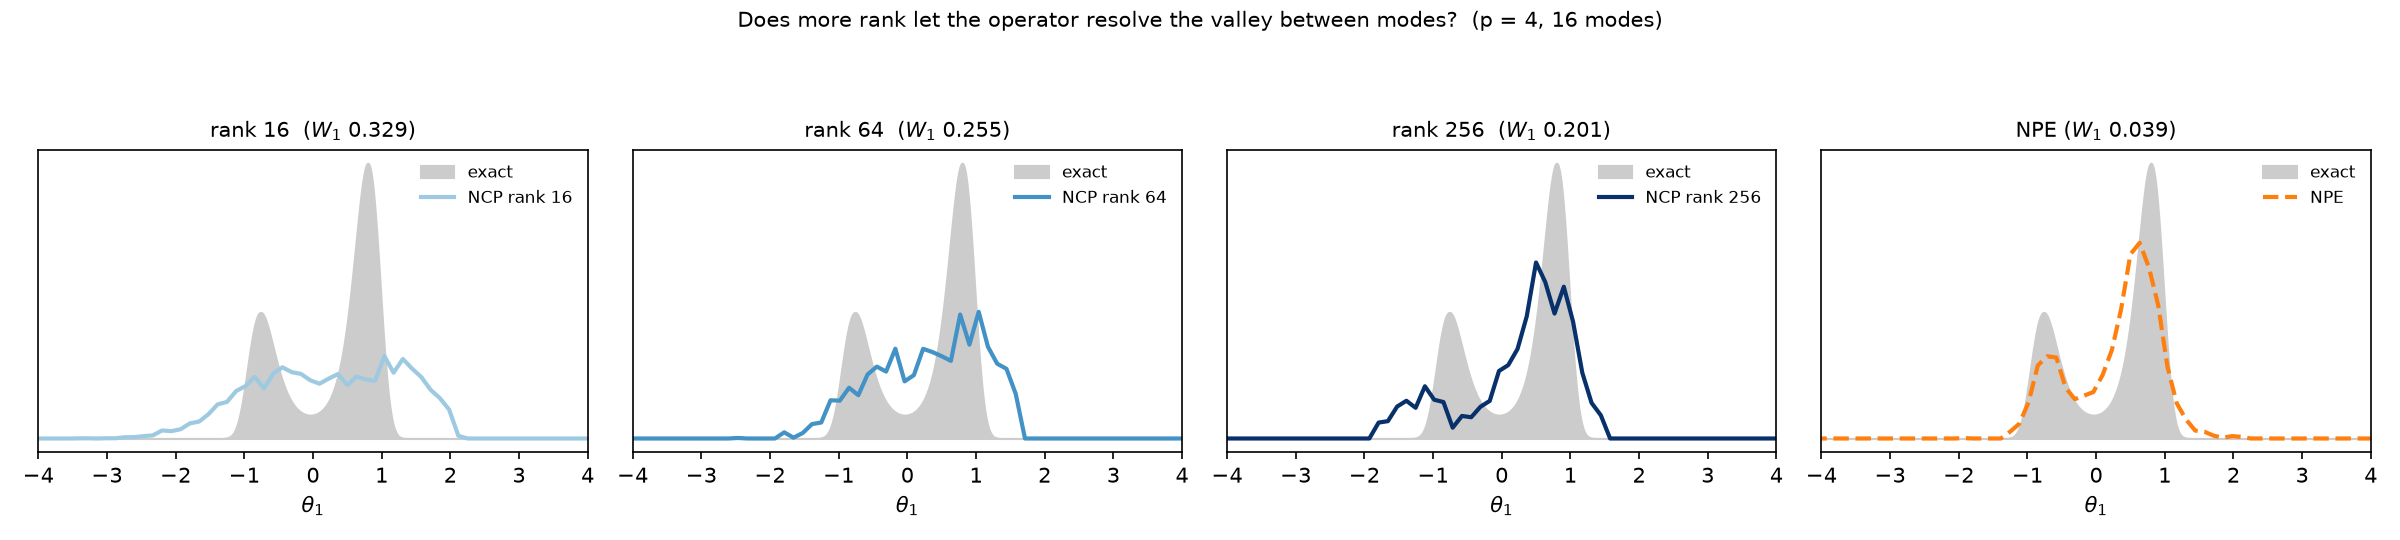
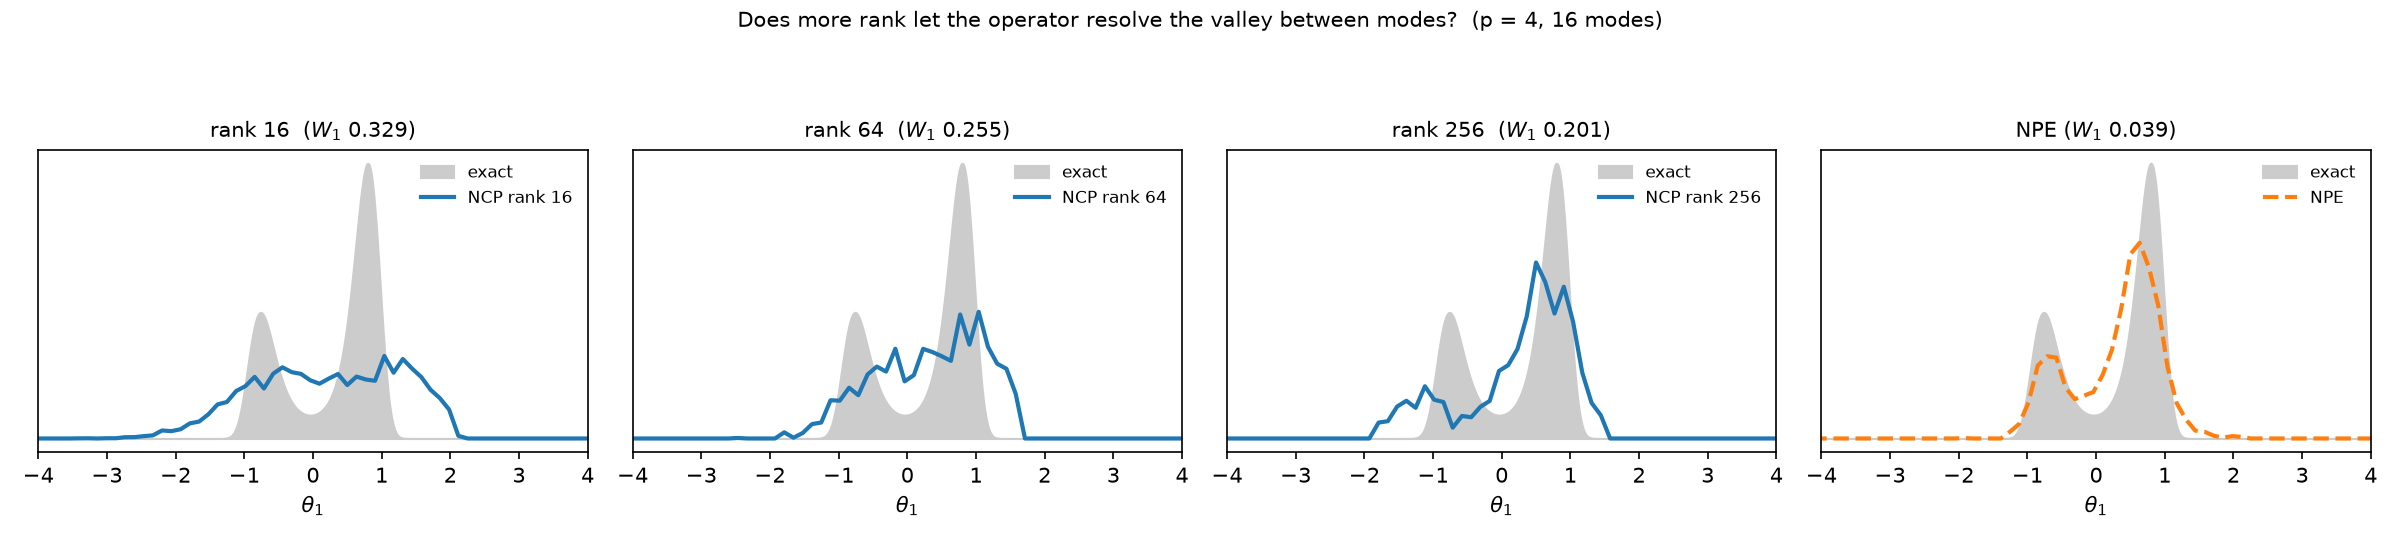
Rank to 1024: the valley defect is cured, the error plateaus anyway
Measured rather than extrapolated, and it corrects this session's
earlier claim.

Rank and width to 1024, with the budget scaled so sqrt(d/n) stays at
0.09: W1 falls 0.3413, 0.2885, 0.2049, 0.1742, 0.1357, 0.1312. The
factor of about 0.80 per doubling holds for four steps and then stops
-- the last step is 0.97 -- so the curve levels off near 0.13, more
than three times NPE's 0.0386. The earlier extrapolation that rank
27000 would match NPE was wrong: the rate stops holding exactly where
it mattered.

The specific defect IS cured. Valley mass falls 0.0815 to 0.0021 across
the same sweep, a fortyfold reduction and essentially zero at the top,
so the smoothing account of example 13 was correct and spectral terms
are its remedy.

The two facts together are the finding: the error changes character
instead of shrinking. The figure shows a broad over-smoothed smear
filling the valley at low rank, and at rank 1024 two cleanly resolved
modes with an empty valley but a jagged curve -- ringing from the
truncated expansion plus noise in the newly added directions. Curing
the smoothing lets oscillation take its place, which no aggregate
metric would have revealed on its own; the valley statistic was worth
building.

chi^2_hat runs 9.3, 15.7, 29.8, 59.8, 113.0, 173.7 and never saturates,
so the ratio is not low-rank and the diagnostic reports that from the
fit alone. Cost settles it: 1914s at rank 1024 against NPE's 132s,
[…]

diff --git a/examples/lfi/14_multimodal_budget.py b/examples/lfi/14_multimodal_budget.py
@@ -246,16 +246,39 @@ def main() -> None:
     print("\n" + "=" * 96)
     print("Reading")
     print("=" * 96)
-    print("  Read the 'valley' column down each budget block. It is the mass the")
-    print("  estimate puts between the modes, where the truth has a minimum, so it")
-    print("  measures the actual defect rather than an aggregate. If it shrinks with")
-    print("  rank, the smoothing explanation is right and the fix is spectral terms.")
-    print("  If it does not, sharp multimodality is a limitation of a low-rank ratio")
-    print("  model and no budget removes it.")
+    print("  Rank is the lever, budget is not: at fixed width, rank 16 to 256 moves")
+    print("  W1 from 0.3262 to 0.2011 while four times the simulations moves it from")
+    print("  0.3262 to 0.3290. The defect is approximation, not estimation.")
     print()
-    print("  Compare the NCP W1 column against the NPE row. Closing the gap is what")
-    print("  'achievable by spending more' would mean; note also the fit-time column,")
-    print("  since rank costs O(n d^2) and that is the price of the fix if it works.")
+    print("  Raising rank AND width together cures the specific defect completely.")
+    print("  Valley mass falls 0.0815, 0.1075, 0.0465, 0.0386, 0.0208, 0.0021 across")
+    print("  ranks 32 to 1024 -- a fortyfold reduction, and essentially zero at the")
+    print("  top. The smoothing account of example 13 was right, and spectral terms")
+    print("  are its cure.")
+    print()
+    print("  BUT THE AGGREGATE ERROR PLATEAUS ANYWAY. W1 falls 0.3413, 0.2885, 0.2049,")
+    print("  0.1742, 0.1357, 0.1312: a steady factor of about 0.80 per doubling that")
+    print("  stops at the last step, where it is 0.97. It is levelling off near 0.13,")
+    print("  more than three times NPE's 0.0386, so more rank will NOT close the gap")
+    print("  on this model. An extrapolation of the 0.80 rate -- which this script")
+    print("  originally reported -- predicted that rank 27000 would match NPE. That")
+    print("  was wrong, because the rate stops holding exactly where it mattered.")
+    print()
+    print("  The figure shows why. The error changes character rather than shrinking.")
+    print("  At low rank the estimate over-smooths and fills the valley; at rank 1024")
+    print("  both modes are resolved and the valley is empty, but the curve is jagged,")
+    print("  with high-frequency wiggles and an over-tall mode -- ringing from the")
+    print("  truncated expansion plus noise in the newly-added directions. One error")
+    print("  source is cured and another grows to take its place.")
+    print()
+    print("  chi^2_hat doubles from 9.3 to 113 and only then slows, reaching 173.7 at")
+    print("  rank 1024. It never saturates, so this ratio is simply not low-rank, and")
+    print("  the diagnostic says so from the fit alone.")
+    print()
+    print("  Cost makes the verdict unambiguous. Rank 1024 takes 1914s against NPE's")
+    print("  132s -- fourteen times the training time for three and a half times the")
+    print("  error. Sharp multimodality is not an intrinsic limitation of the")
+    print("  operator, but on this model it is not worth buying out of.")
 
 
 def _plot(panels, npe_w1, npe_first, name="multimodal_budget.png",
